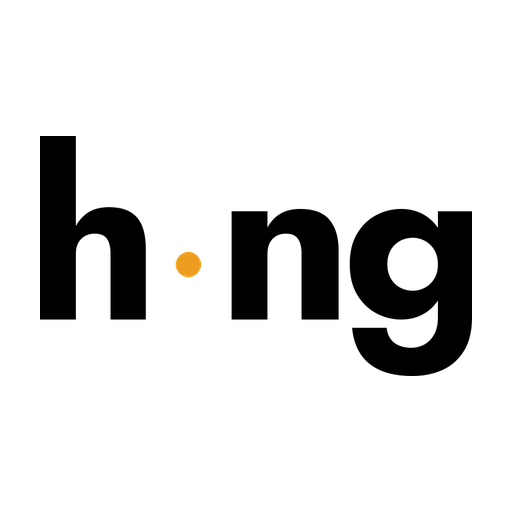
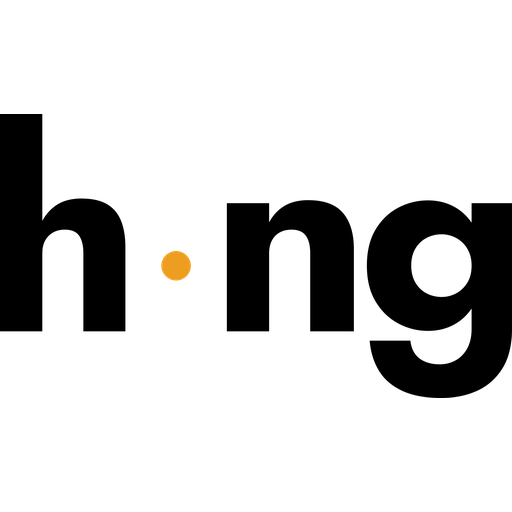
fix(brand): images to the brands specification
Trimmed to the subject with no margins, logos at the preferred maximum
heights (256 and 512 px instead of 128 and 256), icons spanning the full
width, all interlaced and losslessly optimized with oxipng.

Changed region(s): [[0.4375, 0.375, 1.0, 0.7812], [0.0, 0.2188, 0.4062, 0.6562]]

diff --git a/CHANGELOG.md b/CHANGELOG.md
@@ -12,6 +12,8 @@ and this project adheres to [Semantic Versioning](https://semver.org/spec/v2.0.0
 - Brand icon: a compact `h·ng` mark replaces the full wordmark in the square icon, which
   shrank to an unreadable size on the discovery card and in integration lists. The wide
   wordmark stays as the logo.
+- Brand images follow the brands image specification: trimmed to the subject, logos at the
+  preferred 256 and 512 pixel heights, interlaced and losslessly optimized.
 
 ## [0.1.0] - 2026-11-06
 
